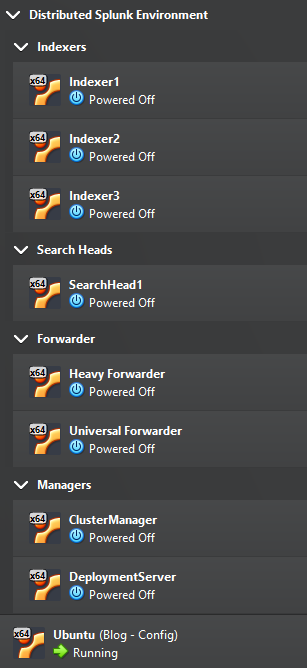
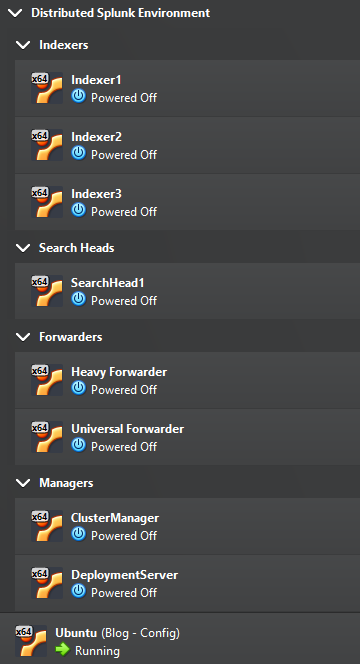
UniversalForwarder

diff --git a/_posts/2024-10-14-DistributedSplunkEnvironmentLab-1.md b/_posts/2024-10-14-DistributedSplunkEnvironmentLab-1.md
@@ -13,6 +13,8 @@ In this tutorial, we will walk through the process of setting up a Splunk enviro
 
 ## Pre Requisites
 
+Splunk account. Create one [here](https://www.splunk.com/en_us/sign-up.html?redirecturl=https://www.splunk.com/).
+
 A license is needed to configure a distributed Splunk environment.
 
 Request a Splunk developer [license here](https://dev.splunk.com/enterprise/dev_license/).
@@ -479,9 +481,9 @@ Group your VMs in VirtualBox for better organization.
 
 2. Name it `Indexers`.
 
-3. Group search heads as Search Heads and the cluster manager and deployment server as Managers.
+3. Group search heads as `Search Heads` and the cluster manager and deployment server as Managers.
 
-4. Move the forwarder into the Forwarder group.
+4. Move the forwarders into the `Forwarders` group.
 
 5. Lastly, select the 3 groups and group them as `Distributed Splunk Environment`.
 
@@ -493,7 +495,7 @@ Your VirtualBox homepage should look like this:
 
 Now that SSH is configured on all the servers, we can use the terminal in our administration Machine to install and configure Splunk.
 
-1. SSH into each machine.
+1. SSH into each machine apart from the `UF` VM.
 
 2. Download [Splunk](https://www.splunk.com/en_us/download/splunk-enterprise.html):
 ```bash
@@ -538,6 +540,67 @@ sudo /opt/splunk/bin/splunk enable boot-start -user splunk
 /opt/splunk/bin/splunk set servername <<server>>
 ```
 ![SplunkServerName](assets/images/VirtualBox-Splunk-Installation-Configuration-Part1/SplunkServerName.png)
+
+### Installing Splunk Universal Forwarder
+
+To install a Splunk Universal Forwarder, follow these steps.
+
+1. SSH into the `Universal Forwarder (UF)` VM.
+
+2. Create the `splunkfwd` user and group, and add the user to the `splunkfwd` and `ssh-users` groups.
+```bash
+sudo useradd -m splunkfwd
+sudo groupadd splunkfwd
+sudo usermod -a -G splunkfwd splunkfwd
+sudo usermod -a -G ssh-users splunkfwd
+``` 
+
+3. Set a password for the `splunkfwd` user.
+```bash
+sudo passwd splunkfwd
+```
+
+4. Copy the `authorized_keys` file to the `.ssh` directory of the `splunkfwd` user.
+```bash
+cp ~/.ssh/authorized_keys ~splunkfwd/.ssh/
+```
+
+5. Download the Splunk Universal Forwarder.
+```bash
+wget -O splunkforwarder-9.3.1-0b8d769cb912-Linux-x86_64.tgz "https://download.splunk.com/products/universalforwarder/releases/9.3.1/linux/splunkforwarder-9.3.1-0b8d769cb912-Linux-x86_64.tgz"
+```
+
+6. Extract the Splunk package.
+```bash
+ssudo tar -xvzf splunkforwarder-9.3.1-0b8d769cb912-Linux-x86_64.tgz -C /opt/
+```
+
+7. Change the ownership of the Splunk home directory.
+```bash
+sudo chown -R splunkfwd:splunkfwd /opt/splunkforwarder
+```
+
+8. Switch to the `splunkfwd` user or SSH from the administration machine.
+```bash
+sudo su splunkfwd
+ssh splunkfwd@10.0.5.208
+```
+
+8. Start Splunk.
+```bash
+/opt/splunkforwarder/bin/splunk start --accept-license
+```
+
+9. Create the admin credentials.
+```bash
+user: admin
+pass: splunkLab
+```
+
+The Splunk Universal Forwarder is now installed.
+
+![UniversalForwarderInstalled](assets/images/VirtualBox-Splunk-Installation-Configuration-Part1/UniversalForwarderInstalled.png)
+
 
 ### Firewall Installation and Configuration
 
@@ -589,6 +652,7 @@ In this post, we have:
 - Configured SSH and public key authentication.
 - Configured firewall rules.
 - Downloaded and Installed Splunk.
+- Downloaded and Insalled the Splunk Universal Forwarder.
 - Installed Guest Additions on the administration Machine.
 - Set the server name of each Splunk server.
 
